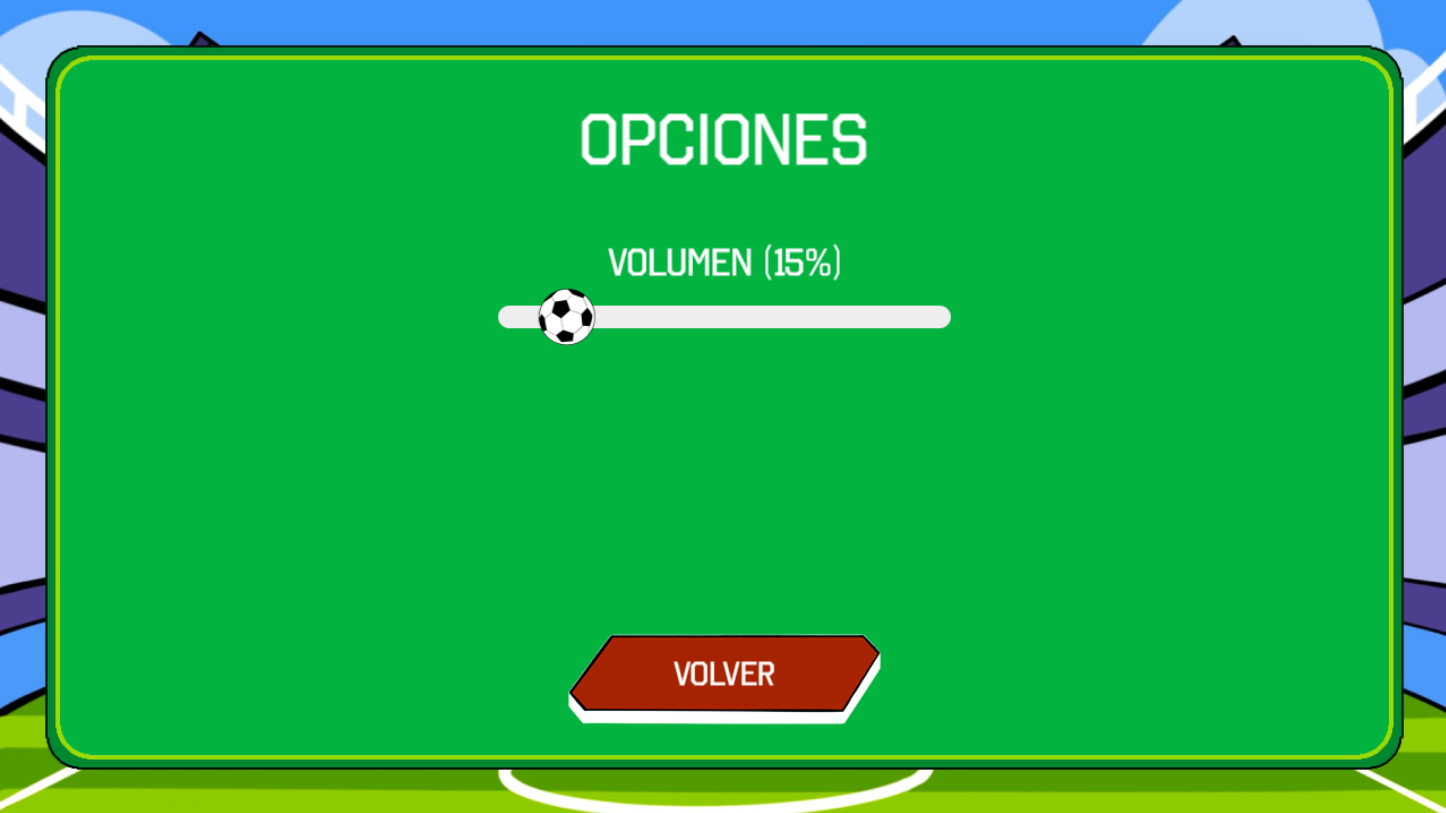
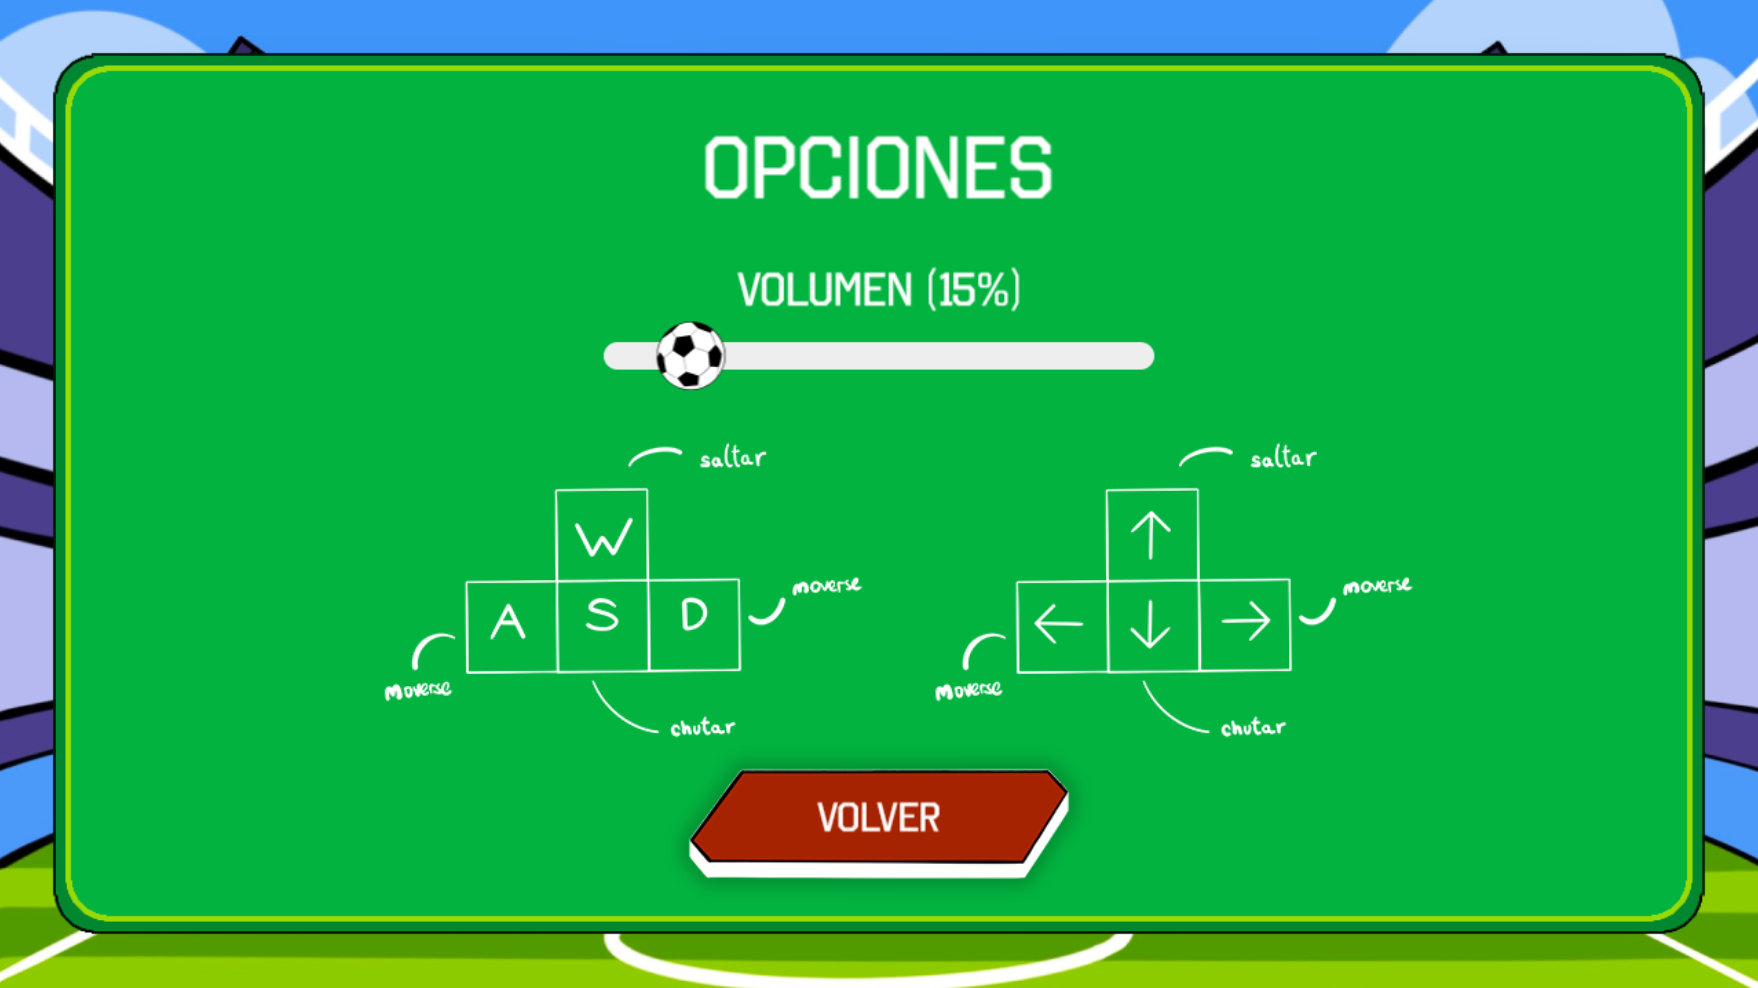
added controls to options

diff --git a/js/scenes/options.js b/js/scenes/options.js
@@ -29,13 +29,17 @@ class SceneOptions extends Phaser.Scene {
     }).setOrigin(0.5)
 
     //Add volome slider
-    const sliderBG = this.add.image(1280 / 2, 280, 'slider')//this.add.rectangle(1280 / 2, 300, 400, 20, 0xffffff)
-    this.slider = new Slider(this, 'ball', new Vec2(640 - 400 / 2, 280), new Vec2(640 + 400 / 2, 280), Settings.volume)
-    this.volumeText = this.add.text(1280 / 2, 230, Math.floor(Settings.volume * 100), {
+    const sliderBG = this.add.image(1280 / 2, 260, 'slider')//this.add.rectangle(1280 / 2, 300, 400, 20, 0xffffff)
+    this.slider = new Slider(this, 'ball', new Vec2(640 - 400 / 2, 260), new Vec2(640 + 400 / 2, 260), Settings.volume)
+    this.volumeText = this.add.text(1280 / 2, 210, Math.floor(Settings.volume * 100), {
       fontFamily: 'college',
       fontSize: '34px',
       align: 'center'
     }).setOrigin(0.5)
+
+    //Add controls
+    const controls1 = this.add.image(1280 / 2 - 200, 440, 'controls1')
+    const controls2 = this.add.image(1280 / 2 + 200, 440, 'controls2')
 
     //Add resume button
     const resume = this.add.image(640, 600, 'button')

diff --git a/js/scenes/main.js b/js/scenes/main.js
@@ -47,6 +47,8 @@ class SceneMain extends Phaser.Scene {
       ['window', 'assets/main/window.png'],
       //Options
       ['slider', 'assets/main/slider.png'],
+      ['controls1', 'assets/main/controls1.png'],
+      ['controls2', 'assets/main/controls2.png'],
       //Characters
       ['arrow_next', 'assets/characters/arrow_next.png'],
       ['preview1', 'assets/characters/p1.png'],
